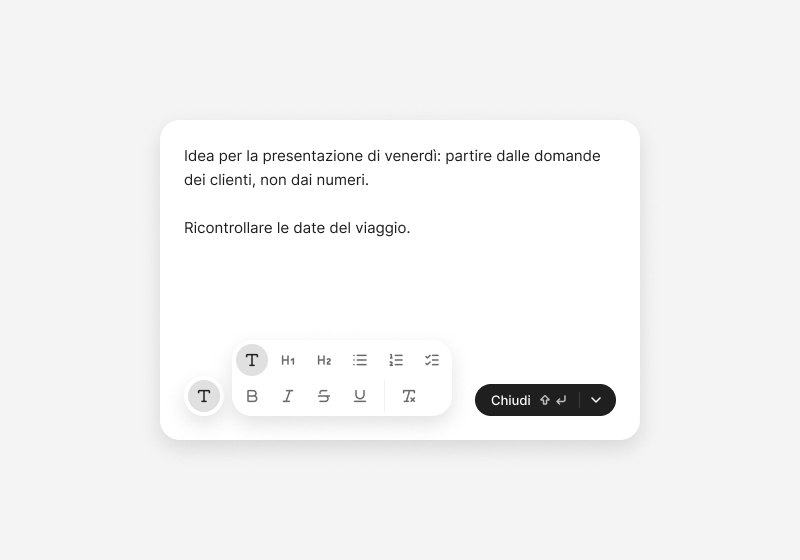
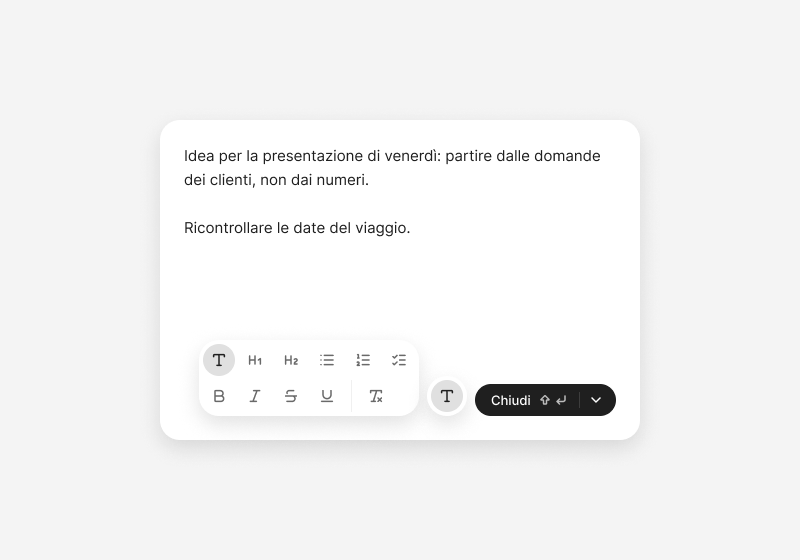
DEC-131: mockup della bollicina aggiornati al ritocco, esportazioni rifatte

diff --git a/docs/avanzamento.md b/docs/avanzamento.md
@@ -2,7 +2,7 @@
 
 <!-- Stato della documentazione (vedi "Lo stato della documentazione" nella guida). Si sovrascrive; le modifiche non vanno nello storico. Chi riprende il lavoro parte da qui. -->
 
-**Ultimo aggiornamento:** 09/10/2026 (bollicina, libreria Figma aggiornata al ritocco (bollicina alta 32, nella nota rapida accanto a Chiudi, cassetto centrato o su due righe allineato in basso, anche nel codice), da pubblicare; poi i mockup. Prima, 09/10/2026: bollicina, attività 5 fatta: prove a mano TC-12, TC-167 … TC-171 e TC-173 superate nell'app di sviluppo, TC-172 superato; restano la libreria Figma e i mockup da aggiornare al ritocco grafico (con l'ok di Manuel Cucca), poi il rilascio con la 1.1.0. Prima, 09/10/2026: bollicina, attività 4 fatta: 8 prove automatiche dell'interfaccia (componente, nota aperta con l'editor vero, file `.md` e `.txt`, nota rapida), 274 prove in tutto; prossimo: attività 5, prove a mano. Prima, 09/10/2026: bollicina, attività 3 fatta: bollicina nella nota aperta, nella nota rapida (subito a sinistra di Chiudi, ritocco di Manuel Cucca) e nei file `.md`, alta 32 come gli altri pulsanti; provata nell'app di sviluppo; il formato acceso resta anche dopo uno spazio e quando il cursore torna nello stesso punto (266 prove); libreria Figma e mockup da aggiornare al ritocco; prossimo: attività 4, prove automatiche dell'interfaccia. Prima, 09/10/2026: bollicina, attività 2 fatta: componente `Bollicina.tsx` (CMP-10) con il cassetto su una o due righe, l'editor avvisa del formato e applica la voce scelta; prossimo: attività 3, la bollicina nella nota aperta, nella nota rapida e nei file `.md`. Prima, 09/10/2026: bollicina, attività 1 fatta: formato mostrato e comandi del cassetto in `formati.ts`, `<u>`, formato in attesa e `-[]` in `scrittura.ts`, 21 prove automatiche nuove (264 in tutto); prossimo: attività 2, la bollicina collegata all'editor. Prima, 09/10/2026: Fase 8 di RF-02 per la bollicina approvata; prossimo: attività 1 (comandi): TC-12 riscritto, TC-167 … TC-173, TC-11 e TC-13 rinviati con le scorciatoie; cinque attività di sviluppo. Prima, 09/10/2026: Fase 7 di RF-02 per la bollicina approvata; prossimo: Fase 8 (piano di test): editor CodeMirror confermato, comandi della bollicina sopra la libreria, scorciatoie rinviate da Manuel Cucca (vedi Rinvii). Prima, 09/10/2026: Fase 6 di RF-02 per la bollicina approvata; prossimo: Fase 7 (architettura): libreria pubblicata due volte (icone a tracciato unico e CMP-10; poi CMP-23 con la bollicina), file dei mockup aggiornato con i colori delle icone e i testi rimessi, mockup nuovi di SC-03 (bollicina chiusa, cassetto aperto, nota nuova con T), SC-02 (cassetto aperto) e del file `.md` di Locale; pillola e menu `/` SUPERATI. Prima, 09/10/2026: Fase 5 di RF-02 per la bollicina approvata: CMP-10 Bollicina del formato con le parti interne Bollicina e Cassetto, tre icone nuove, icone unite in un tracciato solo; libreria da pubblicare (la pubblica Manuel Cucca); prossimo: Fase 6, i mockup. Prima, 09/10/2026: Fase 4 di RF-02 per la bollicina approvata: SC-03 con la bollicina e il cassetto, SC-02 con la bollicina nella fascia in basso, il file `.md` di Locale. Prima, 09/10/2026: Fase 3 di RF-02 per la bollicina approvata: nessun attributo nuovo, i formati stanno nel Contenuto (RB-95). Prima, 09/10/2026: Fase 2 di RF-02 per la bollicina approvata: FL-02 con i tre modi di formattare, RB-93 … RB-96, SF-36 con il sottolineato. Prima, 09/10/2026: DEC-131: la bollicina del formato in vista Markdown, con il cassetto dei formati, le scorciatoie e `-[]`; Fase 1 di RF-02 approvata; prossimo: Fase 2 (flussi). Prima, 09/10/2026: ciclo 1.1.0: note di rilascio in CHANGELOG e guida per gli utenti aggiornate con la vista della nota; per scelta di Manuel Cucca la 1.1.0 si pubblica dopo la 1.0.0, che attende le prove sul Mac. Prima, 09/10/2026: ciclo 1.1.0, attività 5 fatta: prove a mano TC-10, TC-158 … TC-164 e TC-166 superate nell'app di sviluppo; in TC-10 il testo dopo i simboli di chiusura scritti a mano resta nel formato, comportamento previsto per Manuel Cucca; prossimo: 9 – Rilascio della 1.1.0. Prima, 09/10/2026: ciclo 1.1.0, attività 4 fatta: 7 prove automatiche dell'interfaccia per la vista, 248 prove passate, lint pulito; prossimo: attività 5, prove a mano. Prima, 09/10/2026: ciclo 1.1.0, attività 3 fatta: riga Vista in Info, vista nella nota aperta, nella nota rapida e in Locale per estensione; prossimo: attività 4, prove automatiche dell'interfaccia. Prima, 09/10/2026: ciclo 1.1.0, attività 2 fatta: l'editor con la vista Markdown, simboli nascosti e scrittura come in Word, 15 prove automatiche; prossimo: attività 3, l'interfaccia. Prima, 08/10/2026: ciclo 1.1.0: Fasi 1–8 della vista della nota fatte, piano di test TC-10 e TC-158 … TC-166, cinque attività di sviluppo; prossimo: attività 1, il nucleo. Prima, 08/10/2026: ciclo 1.1.0, DEC-130: ogni nota si vede come Testo o come Markdown, scelta nella comparsa Info e salvata con la nota; simboli nascosti e scrittura come in Word; Fase 1 di RF-02 con CA-02.2 e CA-02.14 … CA-02.19, più CA-17.25 per i file di Locale; prossimo: Fase 2 (flussi). Prima, 08/10/2026: DEC-129: la 1.0.0 attende le prove sul Mac sul ramo `rilascio/1.0`; su `main` si apre il ciclo della 1.1.0 con la formattazione Markdown di RF-02 (DEC-64, DEC-125); prima scelta: il motore dell'editor. Prima, 08/10/2026: Fase 9 conclusa: retrospettiva con SF-38 … SF-42 nel catalogo delle sfighe, ID-37 e ID-38 nel registro idee, DEC-128 e due aggiunte alla guida; prossimo: le prove sul Mac elencate in DEC-128, poi il rilascio della 1.0.0 quando lo decide Manuel Cucca. Prima, 08/10/2026: note di rilascio della 1.0.0 approvate. Prima, 08/10/2026: guida per gli utenti approvata; restano note di rilascio e retrospettiva, più le discordanze tra documenti e codice trovate scrivendo la guida. Prima, 07/10/2026: DEC-125: RF-02 (formattazione) e RF-03 (immagini) fuori dalla v1 personale; prossimo la Fase 9. Prima, 07/10/2026: RF-11 Interazioni rapide: criteri e piano di test approvati, prove TC-150 … TC-157 superate; Pronto per il rilascio (resta macOS, con ⌘). Prima, 07/10/2026: DEC-124 accettata e fatta: clic fuori sulle finestre col velo come Esc, manina su tutto ciò che si clicca; doppio occhio di Edge nel campo password tolto; rilasciati nella 0.1.13. Prima, 07/10/2026: rilascio 0.1.12 con la correzione della sincronizzazione dopo un archivio nuovo e il server che accetta solo il JWT. Prima, 07/10/2026: prove a mano del blocco 1 fatte dall'agente con app di sviluppo in parallelo: sincronizzazione TC-87 … TC-95 e TC-103 (con una correzione nel nucleo), scrivere TC-02, TC-03, TC-23, TC-24, TC-26, TC-27, TC-30, ricerca TC-74, Locale TC-104; restano le prove che vogliono gesti veri sul sistema o il Mac. Prima, 07/10/2026: verso la v1 personale, blocco 1 scelto da Manuel Cucca: produzione ripulita (gettone statico tolto dall'API), backup in sospeso, prove a mano fatte dall'agente avvisando prima di ognuna. Prima, 07/10/2026: DEC-123 accettata da Manuel Cucca: comparsa del file di Locale con Chiudi file e Togli da Locale; codice fatto e rilasciato nella 0.1.11, TC-146 e TC-148 superati. Prima, 07/10/2026: DEC-122 accettata da Manuel Cucca: impostazioni con il box dell'account in cima e le sezioni in riquadri; libreria approvata (CMP-31, CMP-32); codice fatto e rilasciato nella 0.1.10, TC-141 e TC-142 superati; restano TC-143 … TC-145 a mano. 0.1.9 installata sul PC Windows, note sul server tutte cifrate; da fare il Mac, TC-127, TC-136 e la rimozione di `MEMODU_IMPRONTA`. Prima, 06/10/2026: DEC-121 accettata da Manuel Cucca: accesso con email e password di un utente fisso e cifratura end-to-end, architettura temporanea e finale; documenti aggiornati, RF-14 e cifratura di RF-10 Pronti con criteri e piano di test approvati, la cifratura di RF-10 va in Fase 8; codice da fare. Prima, 04/10/2026: DEC-120 corretto dopo la prova di Manuel Cucca sulla 0.1.7: velo su tutta la finestra mentre si trascina da fuori, il file rilasciato non entra più nel testo aperto; rilasciato nella 0.1.8, installata sul PC di Manuel Cucca; TC-122 superato su Windows, da provare sul Mac; DEC-120: file e cartelle trascinati dentro Memodu vanno in Locale, trascinamento interno con il puntatore, 0.1.7 rilasciata e installata; DEC-119: sezione CLOUD con le non organizzate nella radice, note prima delle cartelle; libreria pubblicata (CMP-14, menu Aggiungi in CMP-09), mockup di SC-01, SC-03, SC-04, SC-06 e Locale aggiornati con le esportazioni; codice fatto il 04/10/2026 (`Colonna.tsx`, Sposta in, ricerca, ordine di Locale nel nucleo) e visto nell'app; RF-17 Locale progettato dalla Fase 1 alla 8 e scritto, DEC-115 … DEC-118; Ctrl + W e «Chiudi» per impostazioni e cestino, DEC-116, DEC-117; rilascio 0.1.4, installato su tutti e due i computer; TC-86 superato, le altre prove a mano della sincronizzazione messe da parte; criteri e piano di test della sincronizzazione approvati con DEC-109 … DEC-114, RF-10 senza cifratura e RF-14 Pronti; server di sincronizzazione su Vercel con Neon e due computer collegati; rilasci 0.1.2 e 0.1.3, con il testo della nota su tutta la larghezza (DEC-107); prima, 01/10/2026: allineamento generale della documentazione a decisioni e codice, con i dubbi raccolti per Manuel Cucca; CMP-25 in tutte le aree che scorrono, provata anche nella nota rapida; DEC-102 Ctrl + \ fissa la colonna, provata su Windows, da provare su macOS; DEC-99 icona della cartella e DEC-100 spazi dal ruolo del contenitore: libreria, mockup e codice allineati e misurati nell'app; DEC-97: Info più snella e due regole per gli spazi dei contenitori, in libreria e nel codice; prossimo: la pubblicazione della libreria e i mockup; DEC-96: Info sotto il titolo e ricerca avanzata, libreria allineata; RF-08 Ricerca: prove a mano nell'app e correzione dei due difetti trovati; prossimo: le prove che vogliono Manuel Cucca, poi Fase 9)
+**Ultimo aggiornamento:** 09/10/2026 (bollicina: libreria pubblicata da Manuel Cucca, mockup di SC-02, SC-03 e del file `.md` di Locale aggiornati al ritocco ed esportati di nuovo; prossimo: il rilascio della 1.1.0 dopo la 1.0.0 (note di rilascio e guida con la bollicina). Prima, 09/10/2026: bollicina, libreria Figma aggiornata al ritocco (bollicina alta 32, nella nota rapida accanto a Chiudi, cassetto centrato o su due righe allineato in basso, anche nel codice), da pubblicare; poi i mockup. Prima, 09/10/2026: bollicina, attività 5 fatta: prove a mano TC-12, TC-167 … TC-171 e TC-173 superate nell'app di sviluppo, TC-172 superato; restano la libreria Figma e i mockup da aggiornare al ritocco grafico (con l'ok di Manuel Cucca), poi il rilascio con la 1.1.0. Prima, 09/10/2026: bollicina, attività 4 fatta: 8 prove automatiche dell'interfaccia (componente, nota aperta con l'editor vero, file `.md` e `.txt`, nota rapida), 274 prove in tutto; prossimo: attività 5, prove a mano. Prima, 09/10/2026: bollicina, attività 3 fatta: bollicina nella nota aperta, nella nota rapida (subito a sinistra di Chiudi, ritocco di Manuel Cucca) e nei file `.md`, alta 32 come gli altri pulsanti; provata nell'app di sviluppo; il formato acceso resta anche dopo uno spazio e quando il cursore torna nello stesso punto (266 prove); libreria Figma e mockup da aggiornare al ritocco; prossimo: attività 4, prove automatiche dell'interfaccia. Prima, 09/10/2026: bollicina, attività 2 fatta: componente `Bollicina.tsx` (CMP-10) con il cassetto su una o due righe, l'editor avvisa del formato e applica la voce scelta; prossimo: attività 3, la bollicina nella nota aperta, nella nota rapida e nei file `.md`. Prima, 09/10/2026: bollicina, attività 1 fatta: formato mostrato e comandi del cassetto in `formati.ts`, `<u>`, formato in attesa e `-[]` in `scrittura.ts`, 21 prove automatiche nuove (264 in tutto); prossimo: attività 2, la bollicina collegata all'editor. Prima, 09/10/2026: Fase 8 di RF-02 per la bollicina approvata; prossimo: attività 1 (comandi): TC-12 riscritto, TC-167 … TC-173, TC-11 e TC-13 rinviati con le scorciatoie; cinque attività di sviluppo. Prima, 09/10/2026: Fase 7 di RF-02 per la bollicina approvata; prossimo: Fase 8 (piano di test): editor CodeMirror confermato, comandi della bollicina sopra la libreria, scorciatoie rinviate da Manuel Cucca (vedi Rinvii). Prima, 09/10/2026: Fase 6 di RF-02 per la bollicina approvata; prossimo: Fase 7 (architettura): libreria pubblicata due volte (icone a tracciato unico e CMP-10; poi CMP-23 con la bollicina), file dei mockup aggiornato con i colori delle icone e i testi rimessi, mockup nuovi di SC-03 (bollicina chiusa, cassetto aperto, nota nuova con T), SC-02 (cassetto aperto) e del file `.md` di Locale; pillola e menu `/` SUPERATI. Prima, 09/10/2026: Fase 5 di RF-02 per la bollicina approvata: CMP-10 Bollicina del formato con le parti interne Bollicina e Cassetto, tre icone nuove, icone unite in un tracciato solo; libreria da pubblicare (la pubblica Manuel Cucca); prossimo: Fase 6, i mockup. Prima, 09/10/2026: Fase 4 di RF-02 per la bollicina approvata: SC-03 con la bollicina e il cassetto, SC-02 con la bollicina nella fascia in basso, il file `.md` di Locale. Prima, 09/10/2026: Fase 3 di RF-02 per la bollicina approvata: nessun attributo nuovo, i formati stanno nel Contenuto (RB-95). Prima, 09/10/2026: Fase 2 di RF-02 per la bollicina approvata: FL-02 con i tre modi di formattare, RB-93 … RB-96, SF-36 con il sottolineato. Prima, 09/10/2026: DEC-131: la bollicina del formato in vista Markdown, con il cassetto dei formati, le scorciatoie e `-[]`; Fase 1 di RF-02 approvata; prossimo: Fase 2 (flussi). Prima, 09/10/2026: ciclo 1.1.0: note di rilascio in CHANGELOG e guida per gli utenti aggiornate con la vista della nota; per scelta di Manuel Cucca la 1.1.0 si pubblica dopo la 1.0.0, che attende le prove sul Mac. Prima, 09/10/2026: ciclo 1.1.0, attività 5 fatta: prove a mano TC-10, TC-158 … TC-164 e TC-166 superate nell'app di sviluppo; in TC-10 il testo dopo i simboli di chiusura scritti a mano resta nel formato, comportamento previsto per Manuel Cucca; prossimo: 9 – Rilascio della 1.1.0. Prima, 09/10/2026: ciclo 1.1.0, attività 4 fatta: 7 prove automatiche dell'interfaccia per la vista, 248 prove passate, lint pulito; prossimo: attività 5, prove a mano. Prima, 09/10/2026: ciclo 1.1.0, attività 3 fatta: riga Vista in Info, vista nella nota aperta, nella nota rapida e in Locale per estensione; prossimo: attività 4, prove automatiche dell'interfaccia. Prima, 09/10/2026: ciclo 1.1.0, attività 2 fatta: l'editor con la vista Markdown, simboli nascosti e scrittura come in Word, 15 prove automatiche; prossimo: attività 3, l'interfaccia. Prima, 08/10/2026: ciclo 1.1.0: Fasi 1–8 della vista della nota fatte, piano di test TC-10 e TC-158 … TC-166, cinque attività di sviluppo; prossimo: attività 1, il nucleo. Prima, 08/10/2026: ciclo 1.1.0, DEC-130: ogni nota si vede come Testo o come Markdown, scelta nella comparsa Info e salvata con la nota; simboli nascosti e scrittura come in Word; Fase 1 di RF-02 con CA-02.2 e CA-02.14 … CA-02.19, più CA-17.25 per i file di Locale; prossimo: Fase 2 (flussi). Prima, 08/10/2026: DEC-129: la 1.0.0 attende le prove sul Mac sul ramo `rilascio/1.0`; su `main` si apre il ciclo della 1.1.0 con la formattazione Markdown di RF-02 (DEC-64, DEC-125); prima scelta: il motore dell'editor. Prima, 08/10/2026: Fase 9 conclusa: retrospettiva con SF-38 … SF-42 nel catalogo delle sfighe, ID-37 e ID-38 nel registro idee, DEC-128 e due aggiunte alla guida; prossimo: le prove sul Mac elencate in DEC-128, poi il rilascio della 1.0.0 quando lo decide Manuel Cucca. Prima, 08/10/2026: note di rilascio della 1.0.0 approvate. Prima, 08/10/2026: guida per gli utenti approvata; restano note di rilascio e retrospettiva, più le discordanze tra documenti e codice trovate scrivendo la guida. Prima, 07/10/2026: DEC-125: RF-02 (formattazione) e RF-03 (immagini) fuori dalla v1 personale; prossimo la Fase 9. Prima, 07/10/2026: RF-11 Interazioni rapide: criteri e piano di test approvati, prove TC-150 … TC-157 superate; Pronto per il rilascio (resta macOS, con ⌘). Prima, 07/10/2026: DEC-124 accettata e fatta: clic fuori sulle finestre col velo come Esc, manina su tutto ciò che si clicca; doppio occhio di Edge nel campo password tolto; rilasciati nella 0.1.13. Prima, 07/10/2026: rilascio 0.1.12 con la correzione della sincronizzazione dopo un archivio nuovo e il server che accetta solo il JWT. Prima, 07/10/2026: prove a mano del blocco 1 fatte dall'agente con app di sviluppo in parallelo: sincronizzazione TC-87 … TC-95 e TC-103 (con una correzione nel nucleo), scrivere TC-02, TC-03, TC-23, TC-24, TC-26, TC-27, TC-30, ricerca TC-74, Locale TC-104; restano le prove che vogliono gesti veri sul sistema o il Mac. Prima, 07/10/2026: verso la v1 personale, blocco 1 scelto da Manuel Cucca: produzione ripulita (gettone statico tolto dall'API), backup in sospeso, prove a mano fatte dall'agente avvisando prima di ognuna. Prima, 07/10/2026: DEC-123 accettata da Manuel Cucca: comparsa del file di Locale con Chiudi file e Togli da Locale; codice fatto e rilasciato nella 0.1.11, TC-146 e TC-148 superati. Prima, 07/10/2026: DEC-122 accettata da Manuel Cucca: impostazioni con il box dell'account in cima e le sezioni in riquadri; libreria approvata (CMP-31, CMP-32); codice fatto e rilasciato nella 0.1.10, TC-141 e TC-142 superati; restano TC-143 … TC-145 a mano. 0.1.9 installata sul PC Windows, note sul server tutte cifrate; da fare il Mac, TC-127, TC-136 e la rimozione di `MEMODU_IMPRONTA`. Prima, 06/10/2026: DEC-121 accettata da Manuel Cucca: accesso con email e password di un utente fisso e cifratura end-to-end, architettura temporanea e finale; documenti aggiornati, RF-14 e cifratura di RF-10 Pronti con criteri e piano di test approvati, la cifratura di RF-10 va in Fase 8; codice da fare. Prima, 04/10/2026: DEC-120 corretto dopo la prova di Manuel Cucca sulla 0.1.7: velo su tutta la finestra mentre si trascina da fuori, il file rilasciato non entra più nel testo aperto; rilasciato nella 0.1.8, installata sul PC di Manuel Cucca; TC-122 superato su Windows, da provare sul Mac; DEC-120: file e cartelle trascinati dentro Memodu vanno in Locale, trascinamento interno con il puntatore, 0.1.7 rilasciata e installata; DEC-119: sezione CLOUD con le non organizzate nella radice, note prima delle cartelle; libreria pubblicata (CMP-14, menu Aggiungi in CMP-09), mockup di SC-01, SC-03, SC-04, SC-06 e Locale aggiornati con le esportazioni; codice fatto il 04/10/2026 (`Colonna.tsx`, Sposta in, ricerca, ordine di Locale nel nucleo) e visto nell'app; RF-17 Locale progettato dalla Fase 1 alla 8 e scritto, DEC-115 … DEC-118; Ctrl + W e «Chiudi» per impostazioni e cestino, DEC-116, DEC-117; rilascio 0.1.4, installato su tutti e due i computer; TC-86 superato, le altre prove a mano della sincronizzazione messe da parte; criteri e piano di test della sincronizzazione approvati con DEC-109 … DEC-114, RF-10 senza cifratura e RF-14 Pronti; server di sincronizzazione su Vercel con Neon e due computer collegati; rilasci 0.1.2 e 0.1.3, con il testo della nota su tutta la larghezza (DEC-107); prima, 01/10/2026: allineamento generale della documentazione a decisioni e codice, con i dubbi raccolti per Manuel Cucca; CMP-25 in tutte le aree che scorrono, provata anche nella nota rapida; DEC-102 Ctrl + \ fissa la colonna, provata su Windows, da provare su macOS; DEC-99 icona della cartella e DEC-100 spazi dal ruolo del contenitore: libreria, mockup e codice allineati e misurati nell'app; DEC-97: Info più snella e due regole per gli spazi dei contenitori, in libreria e nel codice; prossimo: la pubblicazione della libreria e i mockup; DEC-96: Info sotto il titolo e ricerca avanzata, libreria allineata; RF-08 Ricerca: prove a mano nell'app e correzione dei due difetti trovati; prossimo: le prove che vogliono Manuel Cucca, poi Fase 9)
 
 ## Pacchetti e frammenti
 
@@ -20,7 +20,7 @@ Perimetro: note solo cloud più un editor di file locali non sincronizzati (DEC-
 | Must · resto | RF-03, RF-08, RF-11, cifratura di RF-10 | 1, 2, 3, 4, 5; RF-08 anche 6, 7 e 8 | RF-08: prove a mano nell'app, poi 9 – Rilascio | **In corso: RF-08 Ricerca e filtro** (scelta di Manuel Cucca il 30/09/2026). DEC-94 del 30/09/2026: ricerca in cima alla colonna con Ctrl + K, card con i soli filtri appena si entra nel campo, parole trovate anche dentro le altre (trigrammi FTS5), più tag con tutti i tag, niente filtro Fine validità per ora, sezione Ricerca in SC-06 (RB-69 … RB-72). CMP-13 in libreria senza Fine validità e con la variante Solo filtri (ripubblicata il 30/09/2026). Mockup approvati da Manuel Cucca il 30/09/2026: sei stati della ricerca in SC-01 e SC-06 con la sezione Ricerca. Fase 6 chiusa (prototipo e test saltati come per gli altri frammenti). Fase 7 chiusa il 30/09/2026 con DEC-95: indice FTS5 a trigrammi nello schema 4, aggiornato dai trigger; comando `cerca` e impostazione `cestino_in_ricerca` in `architettura/api.md`. Fase 8 chiusa il 30/09/2026: criteri CA-08.1 … CA-08.16 (200 ms con 5.000 note) e piano di test TC-63 … TC-78 approvati da Manuel Cucca, set di dati Ricerca in `architettura/ambienti.md`; RF-08 Pronto. TC-71 e TC-74 vogliono due dispositivi; TC-74 superato il 07/10/2026 dall'agente con due app in parallelo. **Per riprendere (30/09/2026):** sviluppo fatto. Nucleo: schema 4 con l'indice FTS5 e i trigger, `archivio_ricerca.rs` con il comando `cerca`, impostazione `cestino_in_ricerca` sincronizzata (87 prove del nucleo; con 5.000 note al massimo 66 ms, TC-78 superato). Interfaccia: `Ricerca.tsx` con campo, card, filtri e menu, Ctrl + K nella finestra principale, sezione Ricerca in SC-06 (162 prove dell'interfaccia); controllata nel browser con un nucleo finto, in chiaro e in scuro, contro i mockup. Corretto durante lo sviluppo: con il cursore già nel campo, Ctrl + K e la scrittura non riaprivano la card. Revisione del codice fatta il 30/09/2026: 10 segnalazioni, 9 confermate e corrette (parola di soli segni diacritici che mandava in panico il nucleo; trigger che scorrevano tutto l'indice a ogni salvataggio, ora con `ricerca_righe` nello schema 5; trigger sui tag che riscriveva l'indice a ogni tag ricevuto; unione di tag doppi che lasciava il percorso vecchio nell'indice; impostazione del cestino azzerata da un blocco senza il campo; un clic nella colonna aperta da Ctrl + K la chiudeva; un errore mostrato come «Nessuna nota trovata»; cartelle lette una query per volta; posizione della card ricalcolata a ogni fotogramma), 1 scartata (accenti piegati diversamente: la prova ha mostrato che indice e nucleo si comportano allo stesso modo). Prove: 92 del nucleo, 164 dell'interfaccia. **Prove a mano il 01/10/2026** nell'app su Windows, con una cartella di prova (`MEMODU_CARTELLA`) e guidate da script: superati TC-63 … TC-70, TC-72, TC-73, TC-75, TC-77; TC-71 e TC-76 superati dopo la correzione (l'avviso del cestino compariva sopra la nota di prima; nel menu Tag il focus usciva dalla card). Prove: 92 del nucleo, 166 dell'interfaccia. Aperto un risultato il cursore non andava nel foglio (Manuel Cucca, 01/10/2026): corretto il 05/10/2026, ora va all'inizio del testo con il clic, con Invio e dalla ricerca avanzata, anche se la nota era già aperta; provato nell'app compilata, non ancora rilasciato. Da fare: parte con il secondo dispositivo di TC-71 e TC-74 (Manuel Cucca); poi Fase 9. Il menu CMP-09 nel codice ha in più la spunta, le voci che non chiudono il menu e il campo in testata (per i filtri) **Ricerca avanzata (DEC-96, CMP-29):** «Mostra tutti i risultati» in fondo alla card o Ctrl + Maiusc + K aprono una finestra grande con i filtri sempre aperti; componente in libreria. Mockup di SC-01 approvato da Manuel Cucca il 01/10/2026. Criteri CA-08.17 … CA-08.21 e casi di prova TC-81 … TC-85 scritti dall'agente e approvati da Manuel Cucca il 01/10/2026. **Codice fatto il 01/10/2026:** «Mostra tutti i risultati» in fondo alla card, Ctrl + Maiusc + K e `RicercaAvanzata.tsx` con testo, filtri e risultati della ricerca della colonna; provato a vista nell'app. Prove a mano TC-81 … TC-85 superate il 01/10/2026. Le parti flottanti (card, Sposta in, Info, ricerca avanzata) scorrono con la barra della libreria (DEC-89), non più con quella di Windows. Prove automatiche: 180 dell'interfaccia. RF-03 Immagini: CMP-21 disegnato, restano il pannello delle impostazioni dell'immagine e come salvarle senza rompere l'esportazione. RF-11: criteri CA-11.1 … CA-11.8 e piano TC-150 … TC-157 approvati il 07/10/2026, prove superate lo stesso giorno su Windows. Mockup di Fase 6 fatti per SC-01 … SC-04 e SC-06 |
 | Locale (DEC-115, DEC-123) | RF-17 | 1–8; codice fatto il 04/10/2026 | DEC-123: fatto; TC-146 … TC-149 superati il 07/10/2026 (codice fatto e rilasciato nella 0.1.11 il 07/10/2026, TC-146 e TC-148 superati); poi prove a mano di Manuel Cucca | **DEC-123 del 07/10/2026:** clic sul nome di un file nel percorso apre una comparsa come Info con il nome, Chiudi file e, per un file aggiunto da solo, Togli da Locale. **Codice fatto il 04/10/2026:** nucleo `archivio_locale.rs` e `locale.rs` (schema 6, 16 prove), interfaccia `client/src/locale/` (7 prove); provato nell'app con una cartella dei dati di prova: apertura, pallino, Ctrl + S, file cambiato fuori, UTF-8, CRLF, file troppo grande, sola lettura, file nuovo, menu, Cestino di Windows. Prove a mano del 05/10/2026 nell'app installata (0.1.8) su Windows (agente, cartella dei dati di prova): superati TC-104 (tranne il secondo computer), TC-105, TC-106, TC-107, TC-113, TC-115, TC-117, TC-119, TC-123; **TC-114 non superato**: su un disco senza Cestino (provato su una condivisione di rete) Elimina cancellava per sempre senza la conferma; corretto nel nucleo il 05/10/2026 (solo i dischi fissi di Windows vanno nel Cestino), provato nell'app compilata e superato, non ancora rilasciato; resta la prova con una chiavetta vera (vedi `moduli/locale/8-test.md`). Scelte di Manuel Cucca del 04/10/2026 in `moduli/locale/1-requisiti.md`: voce Locale nella colonna con le cartelle aggiunte, solo .md e .txt, crea, rinomina, sposta ed elimina sul disco (nel Cestino del sistema), salvataggio con Ctrl + S, avviso se il file cambia fuori, niente tag, ricerca, cestino né sincronizzazione; elenco delle cartelle per computer. Fase 1 chiusa il 04/10/2026 con lo scenario d'uso; Manuel Cucca ha scelto di progettarlo subito |
 | Vista della nota · 1.1.0 (DEC-129, DEC-130) | RF-02 (CA-02.2, CA-02.14 … CA-02.20), CA-17.25 | 1, 2, 3, 4, 5, 6, 7, 8 | Pronto per il rilascio, dopo la 1.0.0 (attività 1 … 5 fatte: il nucleo il 08/10/2026, le altre il 09/10/2026; prove a mano TC-10, TC-158 … TC-164 e TC-166 superate, TC-165 in prova automatica) | Su `main`; la 1.0.0 attende le prove sul Mac sul ramo `rilascio/1.0`. **Attività:** (1) nucleo: schema 7 con `vista`, note nuove in `markdown`, `cambia_vista`, sincronizzazione con RB-92, prove del nucleo (TC-165); (2) editor: compartimento Markdown in `Editor.tsx` con la resa da `anteprima.ts`, simboli atomici, ai bordi e Invio e Backspace come in Word, casella cliccabile (CA-02.2, CA-02.15 … CA-02.20); (3) interfaccia: riga Vista in Info con `SceltaSegmenti`, vista nella nota aperta, nella nota rapida e in Locale per estensione (CA-02.14, CA-17.25); (4) prove automatiche dell'interfaccia e lint; (5) prove a mano TC-10, TC-158 … TC-166, poi 9 – Rilascio della 1.1.0 |
-| Bollicina del formato (DEC-131) | RF-02 (CA-02.3 … CA-02.5, CA-02.21 … CA-02.25) | 1, 2, 3, 4, 5, 6, 7, 8 | Pronto per il rilascio, con la 1.1.0 (libreria Figma e mockup da aggiornare al ritocco) | Su `main`, dopo la vista della nota. Sostituisce la pillola degli strumenti (CMP-10). Attività di sviluppo: 1) formato mostrato e comandi in `formati.ts`, `<u>` e `-[]` in `scrittura.ts`, con le prove automatiche (TC-172); 2) componente `Bollicina.tsx` e collegamento con l'editor; 3) nota aperta, nota rapida e file `.md`; 4) prove automatiche dell'interfaccia; 5) prove a mano (TC-12, TC-167 … TC-171, TC-173) |
+| Bollicina del formato (DEC-131) | RF-02 (CA-02.3 … CA-02.5, CA-02.21 … CA-02.25) | 1, 2, 3, 4, 5, 6, 7, 8 | Pronto per il rilascio, con la 1.1.0 | Su `main`, dopo la vista della nota. Sostituisce la pillola degli strumenti (CMP-10). Attività di sviluppo: 1) formato mostrato e comandi in `formati.ts`, `<u>` e `-[]` in `scrittura.ts`, con le prove automatiche (TC-172); 2) componente `Bollicina.tsx` e collegamento con l'editor; 3) nota aperta, nota rapida e file `.md`; 4) prove automatiche dell'interfaccia; 5) prove a mano (TC-12, TC-167 … TC-171, TC-173) |
 | Should | RF-07, RF-09, RF-12, RF-13, RF-16 | — | 1 – Requisiti | Mancano gli scenari d'uso |
 
 ### Idee parcheggiate

diff --git a/docs/moduli/note/4-schermate.md b/docs/moduli/note/4-schermate.md
@@ -11,7 +11,7 @@ L'impostazione generale (desktop-first, breakpoint, scala z-index, inventario de
 - **Esportazioni:** `immagini/SC-02.png`, `immagini/SC-02-cascata.png`
 - **Mockup (frammento Must A, approvati da Manuel Cucca il 27/09/2026):** [vuota](https://www.figma.com/design/18288YdcRf5vtWCtEefQYJ?node-id=20-316) · [con testo](https://www.figma.com/design/18288YdcRf5vtWCtEefQYJ?node-id=20-346) · [più note a cascata](https://www.figma.com/design/18288YdcRf5vtWCtEefQYJ?node-id=20-371)
 - **Esportazioni mockup:** `immagini/SC-02-mockup.png`, `immagini/SC-02-testo-mockup.png`, `immagini/SC-02-cascata-mockup.png`, esportate di nuovo il 09/10/2026 con la bollicina del formato (CMP-23 aggiornato, DEC-131)
-- **Mockup della bollicina (DEC-131, approvati da Manuel Cucca il 09/10/2026):** [cassetto aperto](https://www.figma.com/design/18288YdcRf5vtWCtEefQYJ?node-id=242-3104): nella nota rapida il cassetto si apre su due righe verso l'alto (superato il 09/10/2026: ora la bollicina sta a sinistra di Chiudi e il cassetto si apre verso sinistra, mockup da aggiornare), con Testo normale evidenziato; la nota rapida vuota e quella con testo mostrano la bollicina chiusa con T; esportazione `immagini/SC-02-cassetto-mockup.png`
+- **Mockup della bollicina (DEC-131, approvati da Manuel Cucca il 09/10/2026):** [cassetto aperto](https://www.figma.com/design/18288YdcRf5vtWCtEefQYJ?node-id=242-3104): nella nota rapida il cassetto si apre su due righe verso l'alto (aggiornato il 09/10/2026 al ritocco di Manuel Cucca: la bollicina alta 32 sta subito a sinistra di Chiudi e il cassetto si apre verso sinistra), con Testo normale evidenziato; la nota rapida vuota e quella con testo mostrano la bollicina chiusa con T; esportazione `immagini/SC-02-cassetto-mockup.png`
 
 Finestra di sistema, solo su desktop (RF-01). Niente cromatura dell'applicazione: nessuna colonna, nessun albero, nessuna ricerca. Compare entro 0,2 s (RNF-01), già pronta alla scrittura, con il cursore nel testo.
 
@@ -19,7 +19,7 @@ Finestra di sistema, solo su desktop (RF-01). Niente cromatura dell'applicazione
 | Elemento | Nota |
 |---|---|
 | Area di scrittura | Occupa quasi tutta la finestra; un clic nel vuoto porta il cursore nel testo (DEC-66). Nessun campo titolo: il titolo si mette dopo, nel programma completo (RB-15) |
-| **Bollicina del formato** (DEC-131) | Nella fascia in basso, subito a sinistra di Chiudi: la nota rapida nasce in Markdown (DEC-130), quindi la bollicina c'è sempre. Il cassetto si apre verso sinistra, sopra il testo; se non ci sta su una riga, va su due (vedi SC-03, «Bollicina del formato»). Posizione cambiata da Manuel Cucca il 09/10/2026, provando l'app: mockup da aggiornare |
+| **Bollicina del formato** (DEC-131) | Nella fascia in basso, subito a sinistra di Chiudi: la nota rapida nasce in Markdown (DEC-130), quindi la bollicina c'è sempre. Il cassetto si apre verso sinistra, sopra il testo; se non ci sta su una riga, va su due (vedi SC-03, «Bollicina del formato»). Posizione cambiata da Manuel Cucca il 09/10/2026, provando l'app; libreria, mockup ed esportazioni aggiornati lo stesso giorno |
 | **Chiudi** | Pulsante primario diviso in basso a destra (CMP-01, variante Diviso), l'unico della finestra, con accanto all'etichetta le icone della scorciatoia ⇧ ↵ (Maiusc + Invio, DEC-65). Salva e chiude, come il tasto `Esc`; un clic altrove salva ma non chiude (RB-02, DEC-53); la freccia ▾ apre un menu con **Apri nel programma**, che salva e chiude la nota aperta nel programma, e ci porta questa (RB-05). Esc vuol dire «ho finito», non annulla: per cancellare una nota rapida si entra nel programma. Nessuna ✕ (DEC-34, DEC-50) |
 
 **Nessuna cornice:** niente barra del titolo, niente divisori, niente bordo. La finestra è una superficie bianca con ombra. Si trascina dal margine in alto, che non si vede.

diff --git a/docs/registri/storico.md b/docs/registri/storico.md
@@ -524,3 +524,4 @@
 | 09/10/2026 | Agente IA | Fase 7 di RF-02 per la bollicina: sezione «Bollicina del formato» in architettura.md (formato dove sta il cursore, comandi sull'albero del Markdown, formato in attesa, `<u>` in scrittura.ts, `-[]`, componente Bollicina, posizioni); approvata da Manuel Cucca | DEC-131 |
 | 09/10/2026 | Agente IA | Fase 8 di RF-02 per la bollicina: TC-12 riscritto per la bollicina, TC-167 … TC-173 (cassetto, formati su selezione, parola e formato in attesa, Rimuovi formattazione, `-[]`, nota rapida e file `.md`, prove automatiche, vista Testo invariata); TC-11 e TC-13 rinviati con le scorciatoie; approvato da Manuel Cucca | DEC-131 |
 | 09/10/2026 | Manuel Cucca | Ritocco grafico della bollicina provando l'app: alta 32 come gli altri pulsanti; nella nota rapida subito a sinistra di Chiudi, con il cassetto verso sinistra. Documenti aggiornati; libreria Figma e mockup da aggiornare | DEC-131 |
+| 09/10/2026 | Agente IA | Libreria Figma al ritocco della bollicina (alta 32, in CMP-23 subito a sinistra di Chiudi, cassetto centrato o su due righe allineato in basso), pubblicata da Manuel Cucca; mockup di SC-02, SC-03 e del file `.md` aggiornati solo nei pezzi più esterni, senza testi persi, ed esportati di nuovo | DEC-131 |
